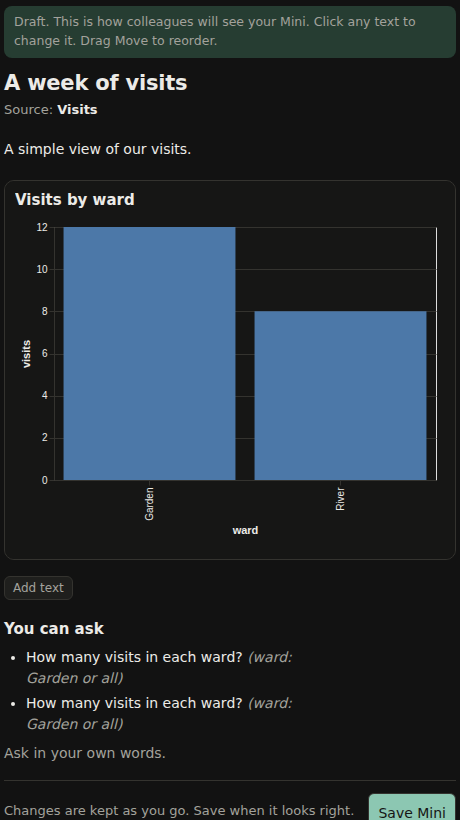
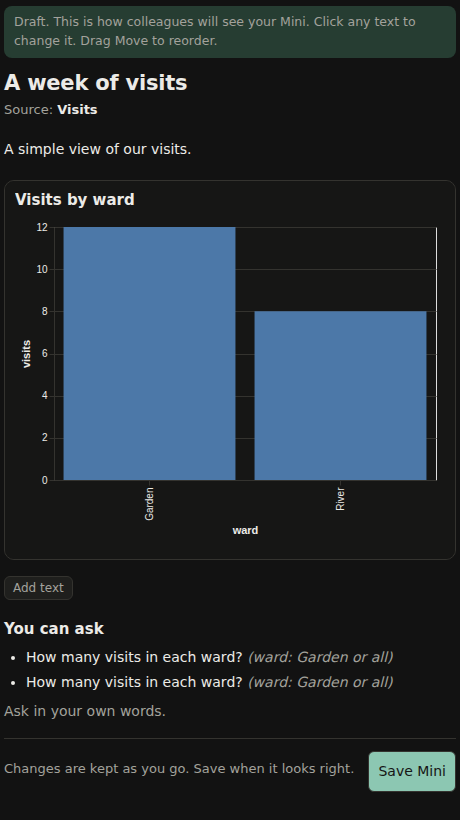
Start here shows Logins and Privacy as two entries; edit buttons float (narrow left pane); Show all by text length

diff --git a/benchmarks/runs/2026-11-06-oss-desktop-independent/cowork/lib/mini-card.html b/benchmarks/runs/2026-11-06-oss-desktop-independent/cowork/lib/mini-card.html
@@ -24,12 +24,13 @@ ul.ask{margin:0;padding-left:22px}ul.ask li{margin:4px 0}ul.ask em{color:var(--m
 .edit .blk,.edit li.q{cursor:text}
 .edit .blk:hover,.edit .blk:focus-within,.edit li.q:hover{background:var(--hover);box-shadow:0 0 0 6px var(--hover)}
 .edit h1:hover,.edit h1:focus{background:var(--hover);box-shadow:0 0 0 4px var(--hover);border-radius:4px;outline:none}
-.tools{position:absolute;top:2px;right:2px;display:flex;gap:4px;opacity:0;transition:opacity .1s}
-.blk:hover .tools,.blk:focus-within .tools,li.q:hover .tools,li.q:focus-within .tools{opacity:1}
-.tools button,.add{font-size:12px;padding:2px 8px;border-radius:6px;background:var(--panel)}
+.tools{position:absolute;top:-14px;right:0;display:flex;gap:4px;opacity:0;pointer-events:none;transition:opacity .1s;z-index:2;
+  background:var(--panel);border:1px solid var(--line);border-radius:8px;padding:2px;box-shadow:0 2px 8px #0002}
+.blk:hover .tools,.blk:focus-within .tools,li.q:hover .tools,li.q:focus-within .tools{opacity:1;pointer-events:auto}
+.tools button,.add{font-size:12px;padding:2px 8px;border-radius:6px;background:var(--panel)}.tools button{border:0}
 .handle{cursor:grab}
-.chart .tools{top:8px;right:8px}
-li.q{position:relative;border-radius:4px}.edit li.q{padding-right:120px}
+.chart .tools{top:6px;right:6px}
+li.q{position:relative;border-radius:4px}
 li.q .words{outline:none}
 textarea.md{width:100%;min-height:70px;resize:none;font:inherit;line-height:1.5;padding:8px;background:var(--panel);overflow:hidden}
 .add{margin:6px 0 0;color:var(--muted)}
@@ -41,7 +42,7 @@ footer .primary{margin:0}footer button{margin:0}
 #status{font-size:13px;color:var(--muted);flex:1;min-width:180px}#status.error{color:var(--danger)}
 #status button{font-size:12px;padding:1px 8px;margin-left:6px}
 .saved{background:var(--soft);border-radius:8px;padding:10px 12px;margin-top:14px}
-@media(hover:none){.tools{opacity:1}}
+@media(hover:none){.tools{opacity:1;pointer-events:auto;position:static;display:inline-flex;margin:4px 0}}
 </style>
 <main id="page" aria-busy="true">
   <p class="note" id="note" hidden>Draft. This is how colleagues will see your Mini. Click any text to change it. Drag Move to reorder.</p>

diff --git a/benchmarks/runs/2026-11-06-oss-desktop-independent/cowork/lib/wire.html b/benchmarks/runs/2026-11-06-oss-desktop-independent/cowork/lib/wire.html
@@ -98,7 +98,9 @@ async function load() {
     </div>`).join("");
   list.querySelectorAll(".card").forEach(card => {
     const t = card.querySelector(".text");
-    if (t && t.scrollHeight > t.clientHeight + 4) {
+    // Decide by the text, not the layout: inside a chat the frame can still be sizing itself when this runs.
+    const raw = t ? t.textContent : "";
+    if (t && (raw.split("\n").length > 6 || raw.length > 360)) {
       const b = document.createElement("button"); b.textContent = "Show all";
       b.onclick = () => { card.classList.toggle("open"); b.textContent = card.classList.contains("open") ? "Show less" : "Show all"; };
       card.appendChild(b);

diff --git a/benchmarks/runs/2026-11-06-oss-desktop-independent/cowork/desktop/idli-bootstrap.py b/benchmarks/runs/2026-11-06-oss-desktop-independent/cowork/desktop/idli-bootstrap.py
@@ -2,9 +2,10 @@
 """Idli first-run bootstrap: make a Paseo install look the way Idli should on first open.
 Safe to rerun: it only adds what's missing.
 
-  Start here       its own folder (~/idli-insights/setup), first in the sidebar
-     Logins           the setup chat (sign-in checks; also answers "what has Idli learned")
-     Privacy          a chat showing what Idli's privacy guard sent to Claude (searchable, per app; written by code)
+  Start here       its own folder (~/idli-insights/setup), first in the sidebar, with two entries (workspaces):
+     Logins           the setup chat (sign-in checks; also answers "what has Idli learned"), the Minis tab
+     Privacy          what Idli's privacy guard sent to Claude (searchable, per app; written by code). An entry of
+                      its own so it can't get lost the way a tab can.
      Minis            a tab: the page listing the files Idli has learned (grows as Claude teaches it)
      Drive            a tab for signing in to Google
   Drivey       the private folder (~/idli-insights/cowork-real): Drive files, where the work happens; a "New chat"
@@ -59,7 +60,8 @@ TOOLSETS = {
 }
 START_PROVIDER = os.environ.get("IDLI_START_PROVIDER", "t4gc-cowork")
 CHAT = "Logins"  # the setup chat in Start here (the workspace keeps the name Start here)
-PRIVACY = "Privacy"  # the second chat in Start here: the "Sent to Claude" log
+PRIVACY = "Privacy"  # the second entry in Start here: the "Sent to Claude" log
+WS_TITLE = {"Start here": CHAT}  # the Start here workspace shows as "Logins" under the Start here heading
 PRIVACY_PROMPT = "Show what Idli sent to Claude"  # lib/modes.py PRIVACY_CHAT: the chat is written by code
 TABS = []  # the Drive tab opens only when the Logins check finds Google signed out (and closes once signed in)
 
@@ -143,21 +145,37 @@ def projects_and_workspaces():
             say(f"name project '{proj['name']}' -> '{heading}'")
             paseo("project", "rename", proj["projectId"], heading, parse=False, change=True)
         wss = [w for w in paseo("workspace", "ls") if same(w["cwd"], path)]
-        names = {n for n, _, _ in LAYOUT}
-        ws = next((w for w in wss if w["name"] == name), None) or \
+        names = {n for n, _, _ in LAYOUT} | set(WS_TITLE.values()) | {PRIVACY}
+        title = WS_TITLE.get(name, name)
+        ws = next((w for w in wss if w["name"] == title), None) or \
+            next((w for w in wss if w["name"] == name), None) or \
             next((w for w in wss if OLD_NAMES.get(w["name"]) == name), None) or \
             next((w for w in wss if w["name"] not in names), None)
         if not ws and proj:
-            say(f"create workspace '{name}'")
+            say(f"create workspace '{title}'")
             paseo("workspace", "create", "--isolation", "local", "--project", proj["projectId"], "--path", path,
-                  "--title", name, parse=False, change=True)
-            ws = next((w for w in (paseo("workspace", "ls") or []) if same(w["cwd"], path) and w["name"] == name),
+                  "--title", title, parse=False, change=True)
+            ws = next((w for w in (paseo("workspace", "ls") or []) if same(w["cwd"], path) and w["name"] == title),
                       None) if not DRY else None
-        elif ws and ws["name"] != name:
-            say(f"name workspace '{ws['name']}' -> '{name}'")
-            paseo("workspace", "rename", ws["workspaceId"], name, parse=False, change=True)
+        elif ws and ws["name"] != title:
+            say(f"name workspace '{ws['name']}' -> '{title}'")
+            paseo("workspace", "rename", ws["workspaceId"], title, parse=False, change=True)
         ids[name] = ws["workspaceId"] if ws else None
+        if name == "Start here" and proj:  # its second entry
+            ids[PRIVACY] = second_workspace(proj, path, PRIVACY, wss)
     return ids
+
+
+def second_workspace(proj, path, title, wss):
+    ws = next((w for w in wss if w["name"] == title), None)
+    if ws:
+        return ws["workspaceId"]
+    say(f"create workspace '{title}'")
+    paseo("workspace", "create", "--isolation", "local", "--project", proj["projectId"], "--path", path,
+          "--title", title, parse=False, change=True)
+    ws = next((w for w in (paseo("workspace", "ls") or []) if same(w["cwd"], path) and w["name"] == title),
+              None) if not DRY else None
+    return ws["workspaceId"] if ws else None
 
 
 def start_chat(ws_id):
@@ -357,7 +375,7 @@ def main():
     retire_claude_workspace()
     one_idli_workspace()
     agent = start_chat(ids.get("Start here"))
-    chat(ids.get("Start here"), FOLDER["Start here"], PRIVACY, PRIVACY_PROMPT, label="idli.role=setup")
+    chat(ids.get(PRIVACY), FOLDER["Start here"], PRIVACY, PRIVACY_PROMPT, label="idli.role=setup")
     learned_tab(agent)  # Minis: a tab in Start here, next to the chat
     start_tabs(agent)
     chat(ids.get("Drivey"), FOLDER["Drivey"], "New chat", "hi")  # Drivey keeps one waiting from then on

diff --git a/benchmarks/runs/2026-11-06-oss-desktop-independent/cowork/tests/check_journey_browser.py b/benchmarks/runs/2026-11-06-oss-desktop-independent/cowork/tests/check_journey_browser.py
@@ -129,6 +129,9 @@ class BrowserTests(Fixture):
             expect(p.locator('.blk')).to_have_count(2);expect(p.locator('.blk.chart iframe')).to_have_count(1)
             self.assertIn('pin=0',p.locator('.blk.chart iframe').get_attribute('src'))
             self.check_layout(p);self.shot(p,f'mini-card-draft-{scheme}-460.png')
+            narrow=self.page(scheme,width=220);narrow.goto(self.url('mini-card',id=ident,embed=1))  # a squeezed left pane
+            expect(narrow.locator('li.q')).to_have_count(2);narrow.locator('li.q').first.hover()
+            self.assertLess(narrow.locator('li.q .words').first.bounding_box()['height'],120);self.check_layout(narrow);narrow.close()
             title=p.locator('#name');title.click();p.keyboard.press('Control+A');p.keyboard.type('Visits we can plan around');p.keyboard.press('Enter')
             p.locator('.blk.text .body').first.click();ta=p.locator('textarea.md');expect(ta).to_be_visible()
             ta.fill('Garden had the **most** visits.\n\n- Start with Garden\n- Then River');p.locator('h2').click()
